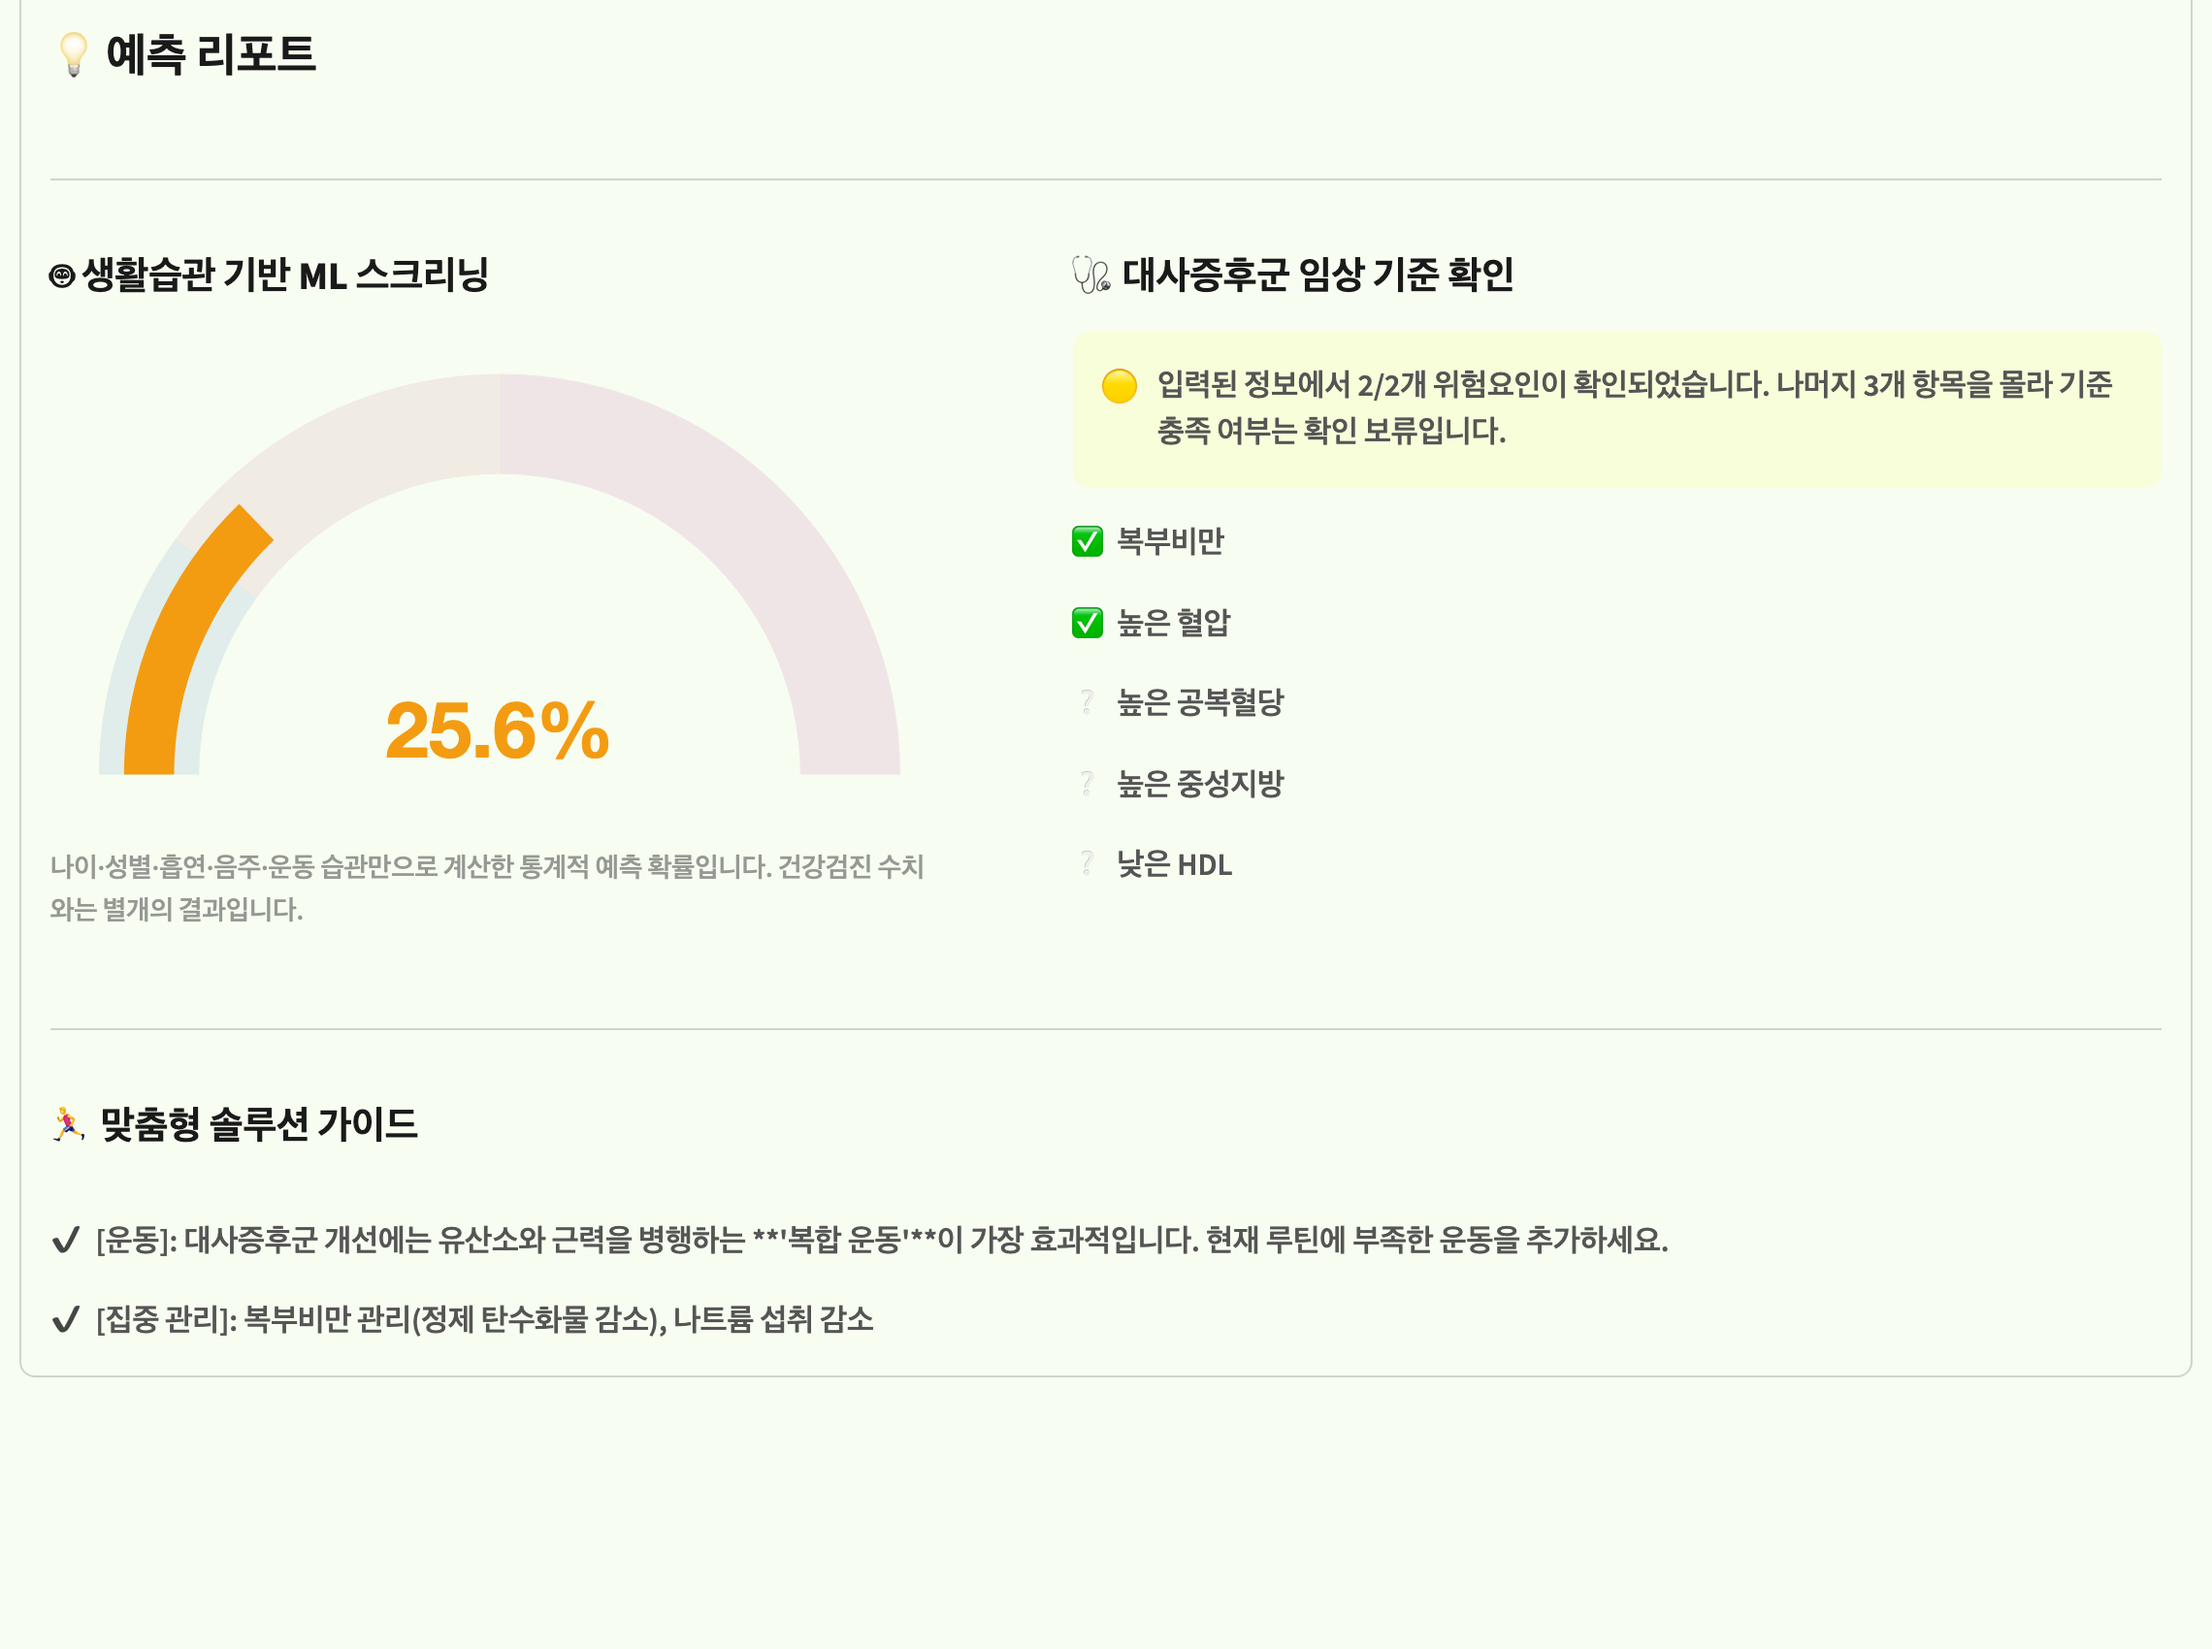
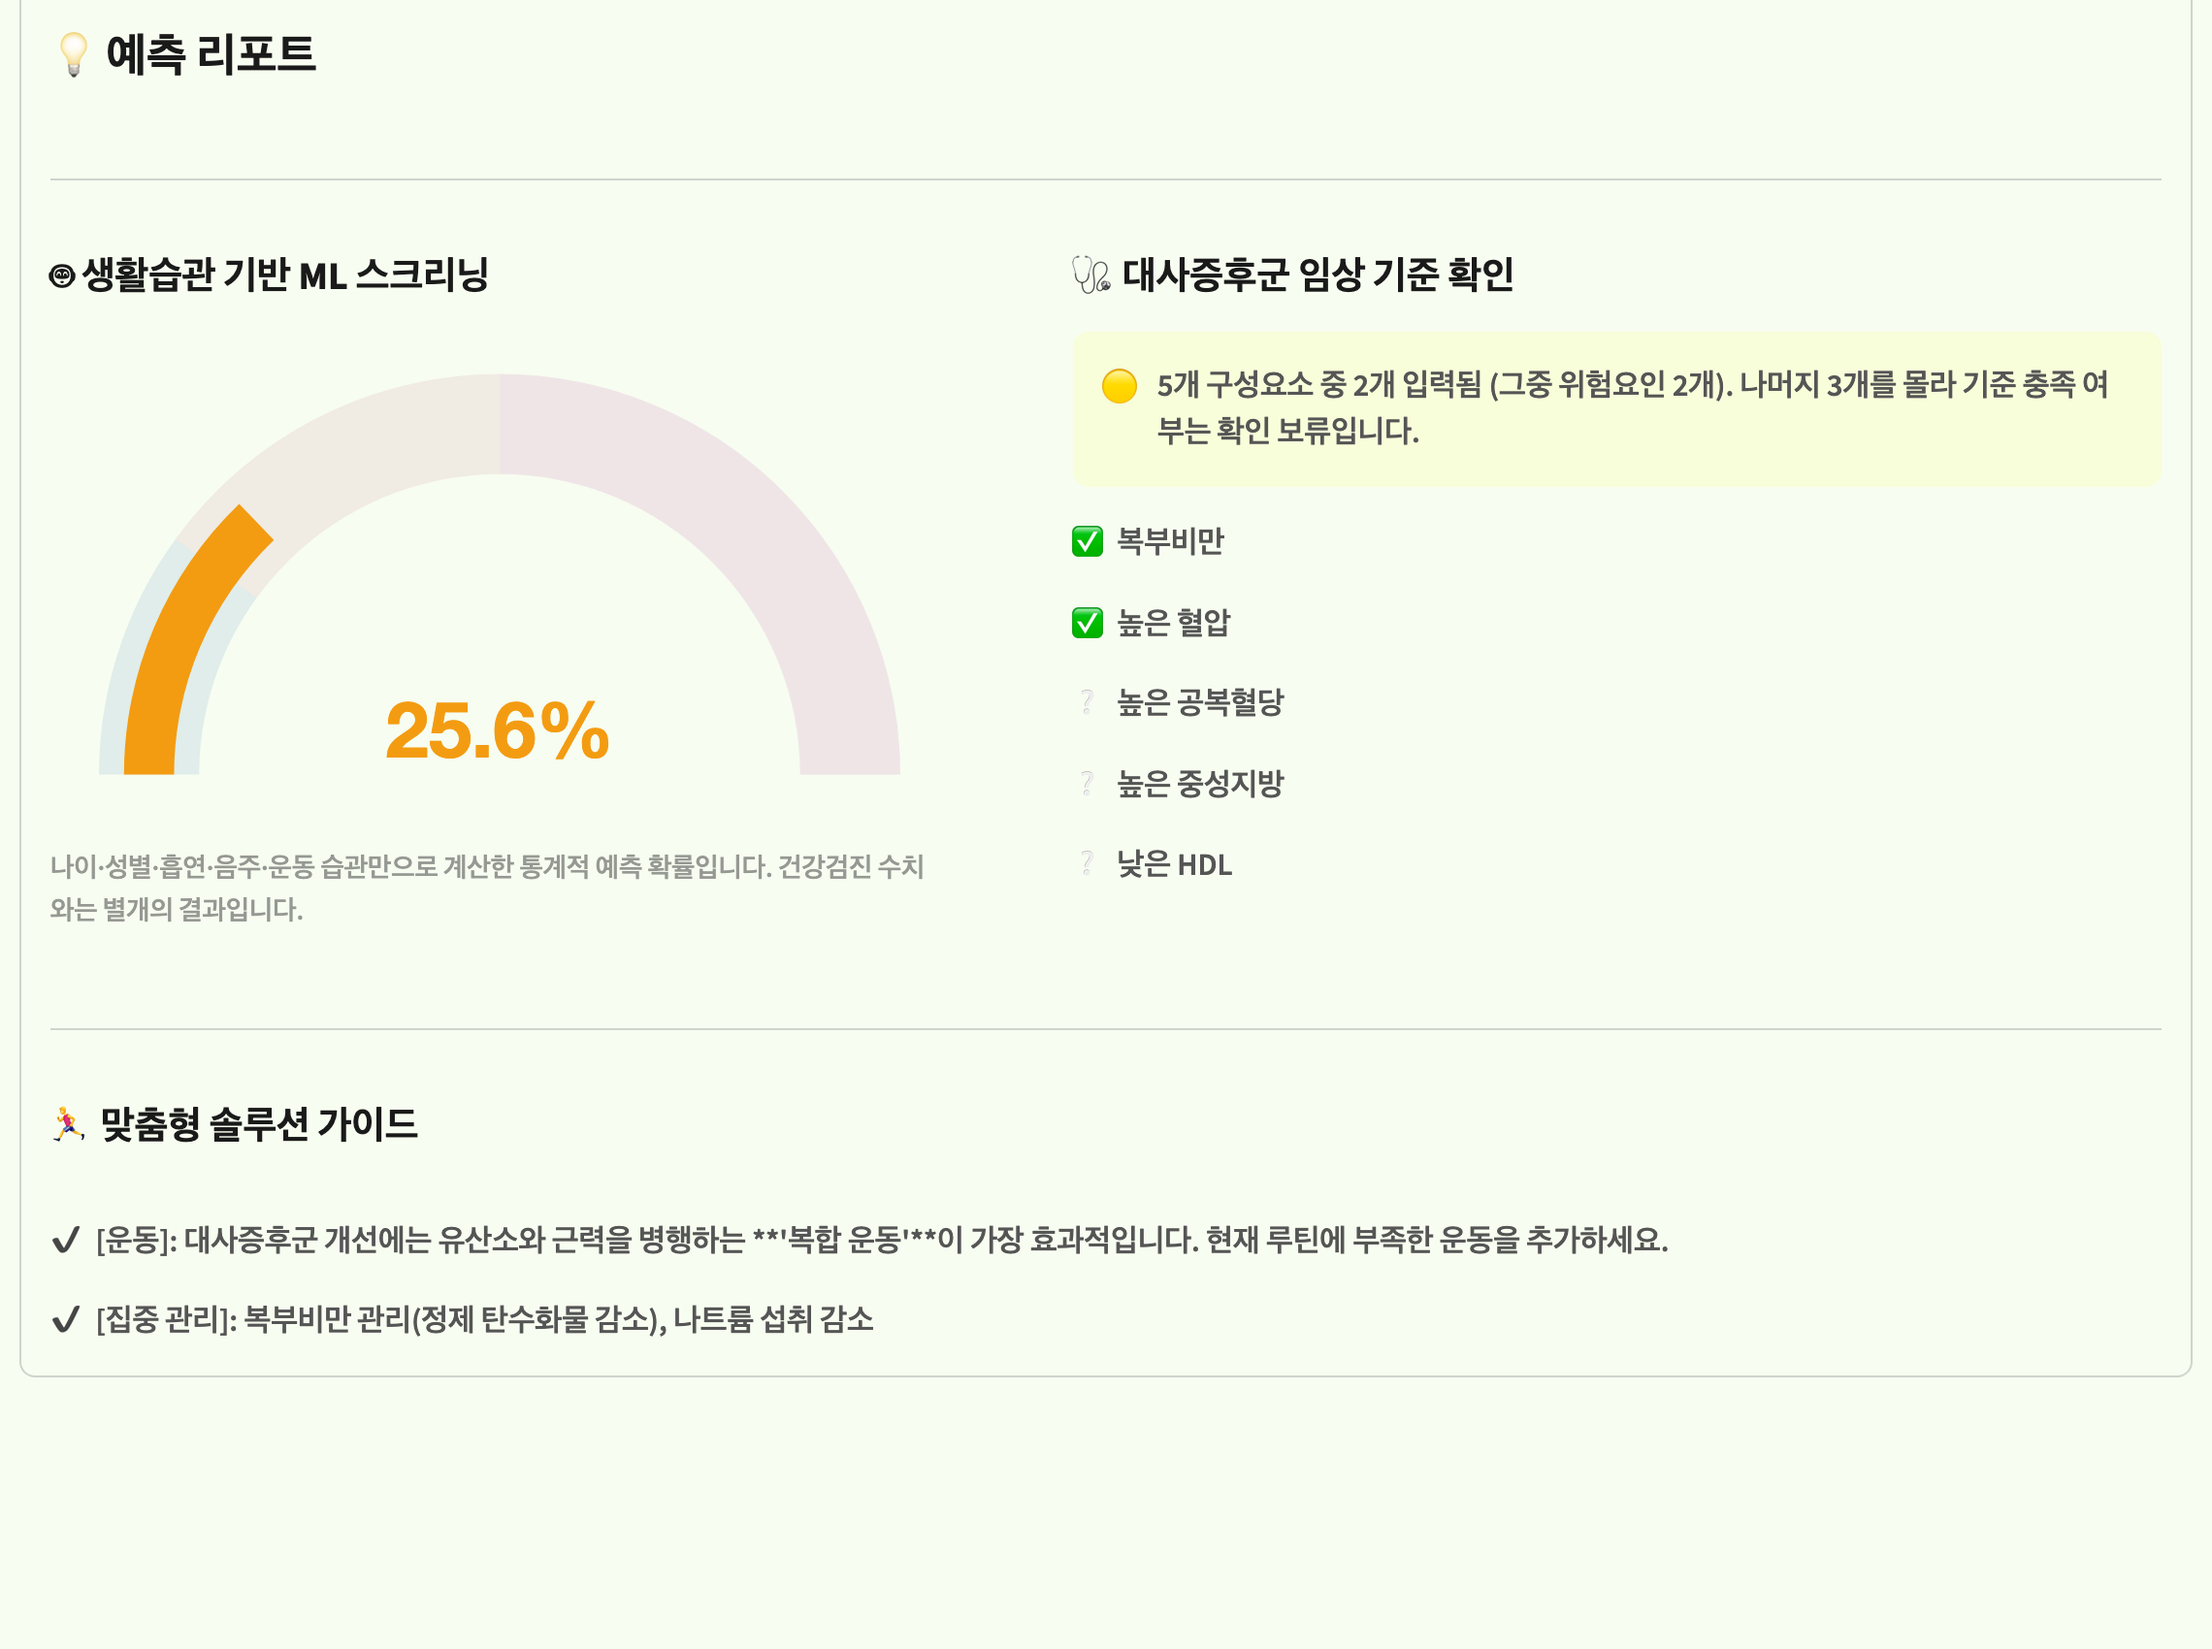
Add files via upload

Changed region(s): [[0.5294, 0.2182, 0.9654, 0.2806]]

diff --git a/04_streamlit_app.py b/04_streamlit_app.py
@@ -338,8 +338,8 @@ if selected == "🩺 AI 위험도 예측": # 메뉴 이름 수정 반영
                         else:
                             st.success(f"✅ **구성요소 {risk_count}/5개 충족 → 대사증후군 임상 기준에 해당하지 않습니다.**")
                     else:
-                        st.warning(f"🟡 **입력된 정보에서 {risk_count}/{known_count}개 위험요인이 확인되었습니다.** "
-                                   f"나머지 {5 - known_count}개 항목을 몰라 기준 충족 여부는 확인 보류입니다.")
+                        st.warning(f"🟡 **5개 구성요소 중 {known_count}개 입력됨 (그중 위험요인 {risk_count}개).** "
+                                   f"나머지 {5 - known_count}개를 몰라 기준 충족 여부는 확인 보류입니다.")
 
                     for name in ['복부비만', '높은 혈압', '높은 공복혈당', '높은 중성지방', '낮은 HDL']:
                         val = components[name]
@@ -355,10 +355,23 @@ if selected == "🩺 AI 위험도 예측": # 메뉴 이름 수정 반영
             if known_count == 5 and risk_count >= 3:
                 st.write("🚨 **[총평]**: 대사증후군 임상 기준을 충족합니다. 반드시 전문의와 상담하시고 생활 습관을 전면적으로 교정해야 합니다.")
 
-            guideline_count = 0
-            if u_ex != "복합(유산소+근력)":
-                st.write("✔ **[운동]**: 대사증후군 개선에는 유산소와 근력을 병행하는 **'복합 운동'**이 가장 효과적입니다. 현재 루틴에 부족한 운동을 추가하세요.")
-                guideline_count += 1
+            # 운동 안내: 본인 데이터의 OR 순위(복합 0.398 vs 근력만 0.378)로 특정
+            # 운동을 서로 비교해 추천하지 않는다 — 각 그룹은 '운동 안 함'과만 비교된
+            # 값이라 그룹 간 우열을 매길 근거가 없음. 대신 공식 신체활동 가이드라인
+            # 원칙(부족한 활동을 보완)에 따라 "현재 상태에서 무엇이 부족한지"를 안내.
+            EXERCISE_GUIDE = {
+                "운동 안 함": "규칙적인 신체활동을 시작해보세요. 유산소 활동과 근력운동을 균형 있게 실천하는 방법을 고려할 수 있습니다.",
+                "유산소 운동만": "현재의 유산소 활동을 유지하면서, 근력운동도 함께 실천하는 것을 고려해보세요.",
+                "근력 운동만": "현재의 근력운동을 유지하면서, 유산소 활동도 함께 고려해보세요.",
+                "복합(유산소+근력)": "현재의 규칙적인 운동습관을 꾸준히 유지해보세요.",
+            }
+            st.write(f"✔ **[운동]**: {EXERCISE_GUIDE[u_ex]}")
+            st.caption(
+                "📊 참고: 본 프로젝트 분석에서 운동을 하지 않는 군 대비 복합운동군·근력운동군은 "
+                "대사증후군 odds가 유의하게 낮았습니다(유산소만 하는 군은 유의하지 않음). "
+                "각 운동 유형을 서로 직접 비교한 결과는 아니라서 이 중 어떤 운동이 더 낫다고는 "
+                "말할 수 없고, 구체적인 운동 방법은 공식 신체활동 가이드라인을 따르는 것이 안전합니다."
+            )
 
             if risk_count > 0:
                 guideline_text = "✔ **[집중 관리]**: "
@@ -368,10 +381,6 @@ if selected == "🩺 AI 위험도 예측": # 메뉴 이름 수정 반영
                 if "높은 중성지방" in risk_factors: guideline_text += "야식 및 음주 제한, "
                 if "낮은 HDL" in risk_factors: guideline_text += "꾸준한 유산소 운동 실천, "
                 st.write(guideline_text.strip(", "))
-                guideline_count += 1
-
-            if guideline_count == 0 and risk_count == 0:
-                st.write("✔ 지금처럼 꾸준히 운동하고 규칙적인 삶을 이어가세요! 정기적인 검진은 필수입니다.")
 
 # ==============================================================================
 # 2⃣ 데이터 인사이트 페이지
@@ -465,7 +474,7 @@ elif selected == "ℹ 프로젝트 정보": # 메뉴 이름 수정 반영
     with st.container(border=True):
         st.markdown("### 🎯 프로젝트 목표 및 개요")
         st.write("20~30대 청년층에서의 생활습관 및 위험요인은 누적되어 향후 만성질환으로 발전할 수 있습니다. 본 AI 모델은 청년층의 생활습관 데이터를 분석하여 대사증후군 위험도를 조기에 예측하고, 개인 맞춤형 예방 가이드를 제공하기 위해 개발되었습니다.")
-        st.info("데이터 출처: 국민건강영양조사 (KNHANES 2022) - 20~39세 청년층 남녀 3,363명 데이터")
+        st.info("데이터 출처: 국민건강영양조사 제9기 (KNHANES 2022–2024) - 20~39세 청년층 남녀 3,363명 데이터")
 
     c_pie, c_bar = st.columns(2, gap="large")
     with c_pie:
